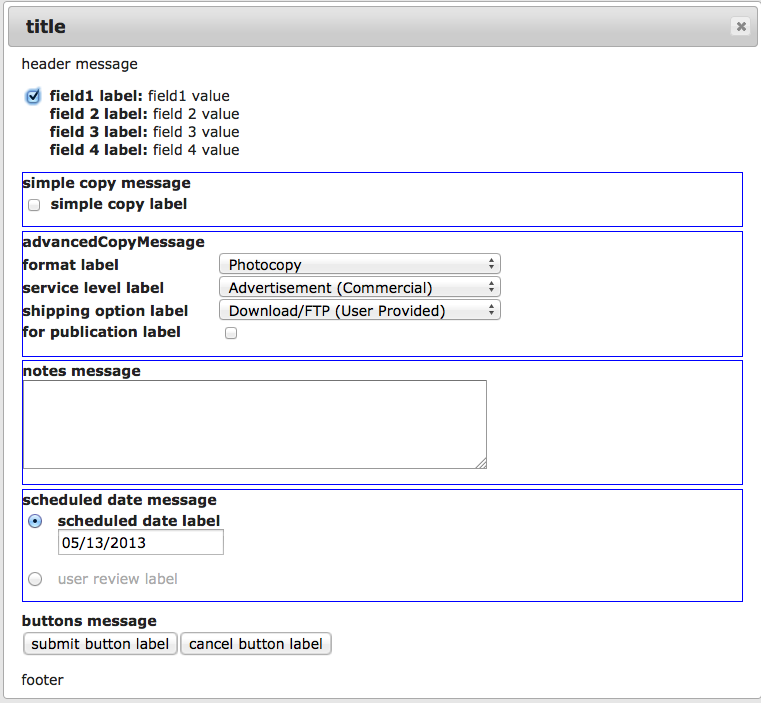
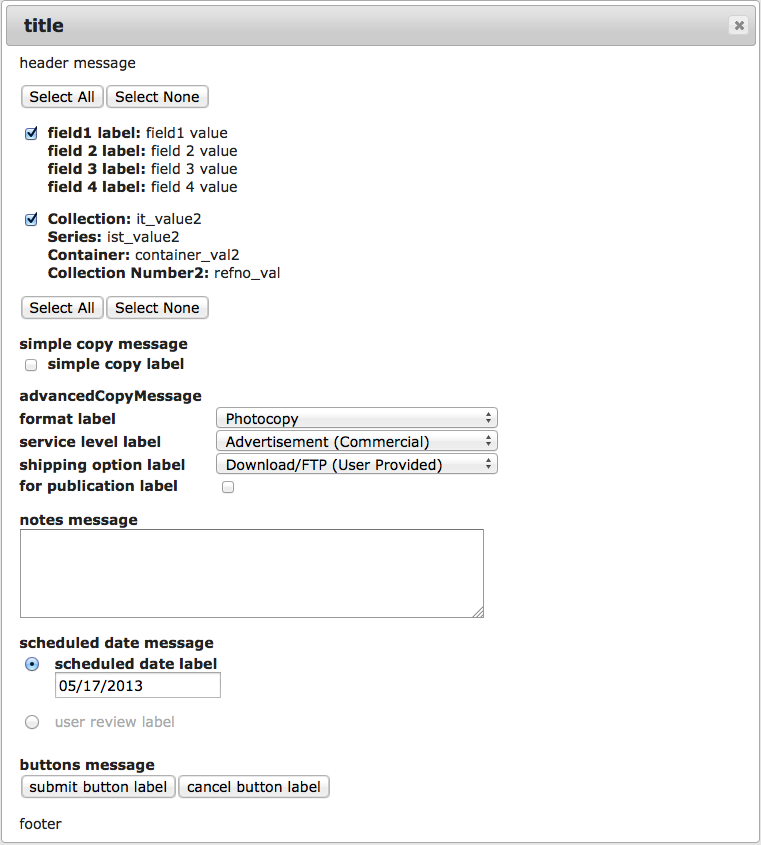
updated diagram and min; removed trailing comma

diff --git a/aeonRequestsDialog.min.js b/aeonRequestsDialog.min.js
@@ -1,21 +1,23 @@
 (function($){var methods={init:function(options){var $this=this,data=this.data("aeonRequestsDialog"),settings;if(!data){settings=$.extend({"dialogId":"aeon_request_dialog","useDefaultBindings":true,"compressRequests":false,"compressRequestsField":"ItemNumber","url":"","AeonForm":"EADRequest","RequestType":"Loan","datasource":"form","globalFields":[],"itemFields":[],"items":[],"json_url":null,"json_callback":null,"json_content":null,"custom_callback":null,"template":'<form method="POST" action="<%= this.url %>" class="aeon_request_form" target="_self" name="<%= this.AeonForm %>">'+
-'<input name="AeonForm" type="hidden" value="<%= this.AeonForm %>"/>'+'<input name="RequestType" type="hidden" value="<%= this.RequestType %>" />'+'<input name="SubmitButton" value="Submit Request" type="hidden" />'+"<% for (var x=0; x < this.globalFields.length; x++ ) { %>"+'<input name="<%= this.globalFields[x].name %>" type="hidden" value="<%= this.globalFields[x].value %>" />'+"<% } %>"+"<% if ( this.header ) { %>"+'<div class="aeon_request_header"><%= this.header %></div>'+"<% } %>"+'<div class="aeon_request_items"></div>'+
-"<% if ( this.includeSimpleCopyOption ) { %>"+'<div class="simple_copy_opt">'+"<% if ( this.simpleCopyMessage ) { %>"+'<div class="simple_copy_message message"><%= this.simpleCopyMessage %></div>'+"<% } %>"+'<div class="request_inputs">'+'<input type="checkbox" class="copy_check" value="Yes"/>'+"</div>"+'<div class="requestDesc"><label for="aeon_request_copy"><span class="label"><%= this.simpleCopyLabel %></span></label></div>'+"</div>"+"<% } %>"+"<% if ( this.includeAdvancedCopyOptions ) { %>"+'<div class="advanced_copy_opt">'+
-"<% if ( this.advancedCopyMessage ) { %>"+'<div class="adv_copy_message message"><%= this.advancedCopyMessage %></div>'+"<% } %>"+'<div class="adv_copy_element">'+'<label for="Format" class="label"><%= this.formatLabel %></label>'+'<select name="Format" class="adv_copy_select">'+"<% for ( var x=0; x < this.formatOptions.length; x++ ) { %>"+"<% var o = this.formatOptions[x]; %>"+'<% if ( typeof o === "object" ) { %>'+'<option value="<%= o.value %>"><%= o.label %></option>'+"<% } else { %>"+"<option><%= o %></option>"+
-"<% } %>"+"<% } %>"+"</select>"+"</div>"+'<div class="adv_copy_element">'+'<label for="ServiceLevel" class="label"><%= this.serviceLevelLabel %></label>'+'<select name="ServiceLevel" class="adv_copy_select">'+"<% for ( var x=0; x < this.serviceLevelOptions.length; x++ ) { %>"+"<% var o = this.serviceLevelOptions[x]; %>"+'<% if ( typeof o === "object" ) { %>'+'<option value="<%= o.value %>"><%= o.label %></option>'+"<% } else { %>"+"<option><%= o %></option>"+"<% } %>"+"<% } %>"+"</select>"+"</div>"+
-'<div class="adv_copy_element">'+'<label for="ShippingOption" class="label"><%= this.shippingOptionLabel %></label>'+'<select name="ShippingOption" class="adv_copy_select">'+"<% for ( var x=0; x < this.shippingOptions.length; x++ ) { %>"+"<% var o = this.shippingOptions[x]; %>"+'<% if ( typeof o === "object" ) { %>'+'<option value="<%= o.value %>"><%= o.label %></option>'+"<% } else { %>"+"<option><%= o %></option>"+"<% } %>"+"<% } %>"+"</select>"+"</div>"+'<div class="adv_copy_element">'+'<label for="ForPublication" class="label"><%= this.forPublicationLabel %></label>'+
-'<input name="ForPublication" type="checkbox" value="Yes">'+"</div>"+"</div>"+"<% } %>"+"<% if ( this.includeNotes ) { %>"+'<div class="notes">'+"<% if ( this.notesMessage ) { %>"+'<label for="Notes" class="notes_message message"><%= this.notesMessage %></label><br/>'+"<% } %>"+'<textarea name="Notes" cols="60" rows="4"></textarea>'+"</div>"+"<% } %>"+"<% if (this.includeScheduledDate) { %>"+'<div class="scheduled_date_options">'+"<% if ( this.scheduledDateMessage ) { %>"+'<div class="scheduled_date_message message"><%= this.scheduledDateMessage %></div>'+
-"<% } %>"+'<div class="rev_sched_opt">'+'<input type="radio" name="UserReview" class="schedule_opt scheduled_date_radio" value="No" checked="checked"/>'+"</div>"+'<div class="scheduled_date">'+'<label for="scheduled_date_radio"><span class="label"><%= this.scheduledDateLabel %></span></label><br/>'+'<input type="text" class="datepicker"  name="ScheduledDate"/>'+"</div>"+'<div class="rev_sched_opt">'+'<input type="radio" name="UserReview" value="Yes" class="schedule_opt user_review_radio"/>'+"</div>"+
-'<div class="review disabled">'+'<label for="user_review_radio"><%= this.userReviewLabel %></label>'+"</div>"+"</div>"+"<% } %>"+'<div class="buttons">'+"<% if ( this.buttonsMessage ) { %>"+'<div class="buttonMessage message"><%= this.buttonsMessage %></div>'+"<% } %>"+'<input type="submit" value="<%= this.submitButtonLabel %>" class="dialog_submit"/>'+'<input type="reset" value="<%= this.cancelButtonLabel %>" class="dialog_cancel"/>'+"</div>"+"<% if ( this.footer ) { %>"+'<div class="aeon_footer"><%= this.footer %></div>'+
-"<% } %>"+"</form>","items_template":"<div>"+"<% for ( var x=0; x < this.items.length; x++ ) { %>"+'<div class="requestItem" style="clear:both">'+'<div class="request_inputs">'+'<input type="checkbox" name="Request" value="<%= x %>" checked="checked"/>'+"\n"+"<% for ( var y=0; y < this.items[x].fields.length; y++ ){ %>"+'<input type="hidden" name="<%= this.items[x].fields[y].name %>_<%= x %>" value="<%= this.items[x].fields[y].value %>">'+"<% } %>"+"</div>"+"\n"+"<% for ( var y=0; y < this.items[x].fields.length; y++ ){ %>"+
-"<% if ( this.items[x].fields[y].label ) { %>"+'<div class="requestDesc"><span class="label"><%= this.items[x].fields[y].label %>:</span> <%= this.items[x].fields[y].value %></div>'+"<% } %>"+"<% } %>"+"</div>"+"\n"+"<% } %>"+"\n"+"</div>","items_attachpoint_selector":".aeon_request_items","title":"Confirm your request","header":"","includeNotes":true,"notesMessage":"Please include any notes that might help us identify the specific items requested or any other pertinent information:","includeScheduledDate":true,
-"scheduledDateMessage":"","scheduledDateLabel":"Scheduled Date","userReviewLabel":"Keep this request saved in your account for later review. It will not be sent to Libraries staff for fulfilment.","buttonsMessage":"","submitButtonLabel":"Submit Request","cancelButtonLabel":"Cancel Request","footer":"","includeSimpleCopyOption":false,"simpleCopyLabel":"Requesting Duplication of Material","simpleCopyMessage":"","includeAdvancedCopyOptions":false,"advancedCopyMessage":"","formatLabel":"Format","formatOptions":["Photocopy",
-"Scan (DVD/CD)","Scan (Electronic Delivery)"],"serviceLevelLabel":"Intended Use","serviceLevelOptions":["Advertisement (Commercial)","Advertisement (PSA)","Educational Use","Government","Live Presentation","Museum Use","Non Profit","Personal Use","Preservation Use"],"shippingOptionLabel":"Shipping Option","shippingOptions":["Download/FTP (User Provided)","Download/FTP (Institution Provided)","Pick up Onsite","Fed Ex (User Account)","UPS (User Account)","USPS (First Class)","USPS (Overseas)"],"forPublicationLabel":"For Publication",
-"submitButtonSelector":".aeon_submit","minWidth":750,"createDialog":function(){return this},"destroyDialog":function(){return this},"onSubmit":function(){return true},"form":"EADRequest","requestsSelector":'input[name="Request"]',"cleanValues":function(s){return s.replace(/^\s*/,"").replace(/\s*$/,"")},"stripUnchecked":false},options);if(settings.includeAdvancedCopyOptions)settings.RequestType="Copy";$(settings.submitButtonSelector).on("click.aeonRequestsDialogMain",function(e){e.preventDefault();
-e.stopPropagation();methods.show.apply($this,null)});$(this).data("aeonRequestsDialog",{settings:settings});$("body").jqoteapp('<div style="display:none"><div id="<%= this.dialogId %>" title="<%= this.title %>" class="aeon_request"></div></div>',settings)}else console.log("aeonRequestsDialog already initialized");return this},show:function(){var settings=this.data("aeonRequestsDialog").settings,$this=this;if(settings.datasource==="form"){methods._processForm.apply(this,null);methods._showDialog.apply(this,
-null)}if(settings.datasource==="json")$.getJSON(settings.json_url,settings.json_content,function(data){var o=settings.json_callback(data);if(o){methods.options.apply($this,[o]);methods._showDialog.apply($this,null)}});if(settings.datasource==="custom"){var o=settings.custom_callback();if(o){methods.options.apply($this,[o]);methods._showDialog.apply($this,null)}}},_showDialog:function(){var settings=this.data("aeonRequestsDialog").settings,$this=this,$dialog=$("#"+settings.dialogId),opts={modal:true,
-autoOpen:false,close:function(){if(settings.useDefaultBindings)methods._defaultDestroyDialog.apply($this,null);settings.destroyDialog();$(window).off(".aeonRequestsDialog");$dialog.dialog("destroy");$dialog.html("")}},f=["height","width"],f2=["min","max"];$dialog.jqotesub(settings.template,settings);$("#"+settings.dialogId+" "+settings.items_attachpoint_selector).jqotesub(settings.items_template,settings);for(var x=0;x<2;x++){if(settings[f[x]]){opts[f[x]]=settings[f[x]];continue}for(var y=0;y<2;y++){var s=
-f2[y]+f[x].charAt(0).toUpperCase()+f[x].slice(1);if(settings[s])opts[s]=settings[s]}}$dialog.dialog(opts);if(settings.useDefaultBindings)methods._defaultCreateDialog.apply(this,null);settings.createDialog();$dialog.dialog("open");return this},_defaultCreateDialog:function(){var $this=this;var settings=this.data("aeonRequestsDialog").settings;var idSelector="#"+settings.dialogId;$(idSelector+" .datepicker").datepicker({minDate:0}).val($.datepicker.formatDate("mm/dd/yy",new Date));if(settings.includeSimpleCopyOption)$(idSelector+
+'<input name="AeonForm" type="hidden" value="<%= this.AeonForm %>"/>'+'<input name="RequestType" type="hidden" value="<%= this.RequestType %>" />'+'<input name="SubmitButton" value="Submit Request" type="hidden" />'+"<% for (var x=0; x < this.globalFields.length; x++ ) { %>"+'<input name="<%= this.globalFields[x].name %>" type="hidden" value="<%= this.globalFields[x].value %>" />'+"<% } %>"+"<% if ( this.header ) { %>"+'<div class="aeon_request_header"><%= this.header %></div>'+"<% } %>"+'<% if ( this.selectAllButtonsPosition === "top" || this.selectAllButtonsPosition === "both" ) { %>'+
+"<% if ( !this.selectAllButtonsShowAt || ( this.items.length >= this.selectAllButtonsShowAt ) ) { %>"+'<div class="select_all_buttons"><button class="select_all">Select All</button><button class="select_none">Select None</button></div>'+"<% } %>"+"<% } %>"+'<div class="aeon_request_items"></div>'+'<% if ( this.selectAllButtonsPosition === "bottom" || this.selectAllButtonsPosition === "both" ) { %>'+"<% if ( !this.selectAllButtonsShowAt || ( this.items.length >= this.selectAllButtonsShowAt ) ) { %>"+
+'<div class="select_all_buttons"><button class="select_all">Select All</button><button class="select_none">Select None</button></div>'+"<% } %>"+"<% } %>"+"<% if ( this.includeSimpleCopyOption ) { %>"+'<div class="simple_copy_opt">'+"<% if ( this.simpleCopyMessage ) { %>"+'<div class="simple_copy_message message"><%= this.simpleCopyMessage %></div>'+"<% } %>"+'<div class="request_inputs">'+'<input type="checkbox" class="copy_check" value="Yes"/>'+"</div>"+'<div class="requestDesc"><label for="aeon_request_copy"><span class="label"><%= this.simpleCopyLabel %></span></label></div>'+
+"</div>"+"<% } %>"+"<% if ( this.includeAdvancedCopyOptions ) { %>"+'<div class="advanced_copy_opt">'+"<% if ( this.advancedCopyMessage ) { %>"+'<div class="adv_copy_message message"><%= this.advancedCopyMessage %></div>'+"<% } %>"+'<div class="adv_copy_element">'+'<label for="Format" class="label"><%= this.formatLabel %></label>'+'<select name="Format" class="adv_copy_select">'+"<% for ( var x=0; x < this.formatOptions.length; x++ ) { %>"+"<% var o = this.formatOptions[x]; %>"+'<% if ( typeof o === "object" ) { %>'+
+'<option value="<%= o.value %>"><%= o.label %></option>'+"<% } else { %>"+"<option><%= o %></option>"+"<% } %>"+"<% } %>"+"</select>"+"</div>"+'<div class="adv_copy_element">'+'<label for="ServiceLevel" class="label"><%= this.serviceLevelLabel %></label>'+'<select name="ServiceLevel" class="adv_copy_select">'+"<% for ( var x=0; x < this.serviceLevelOptions.length; x++ ) { %>"+"<% var o = this.serviceLevelOptions[x]; %>"+'<% if ( typeof o === "object" ) { %>'+'<option value="<%= o.value %>"><%= o.label %></option>'+
+"<% } else { %>"+"<option><%= o %></option>"+"<% } %>"+"<% } %>"+"</select>"+"</div>"+'<div class="adv_copy_element">'+'<label for="ShippingOption" class="label"><%= this.shippingOptionLabel %></label>'+'<select name="ShippingOption" class="adv_copy_select">'+"<% for ( var x=0; x < this.shippingOptions.length; x++ ) { %>"+"<% var o = this.shippingOptions[x]; %>"+'<% if ( typeof o === "object" ) { %>'+'<option value="<%= o.value %>"><%= o.label %></option>'+"<% } else { %>"+"<option><%= o %></option>"+
+"<% } %>"+"<% } %>"+"</select>"+"</div>"+'<div class="adv_copy_element">'+'<label for="ForPublication" class="label"><%= this.forPublicationLabel %></label>'+'<input name="ForPublication" type="checkbox" value="Yes">'+"</div>"+"</div>"+"<% } %>"+"<% if ( this.includeNotes ) { %>"+'<div class="notes">'+"<% if ( this.notesMessage ) { %>"+'<label for="Notes" class="notes_message message"><%= this.notesMessage %></label><br/>'+"<% } %>"+'<textarea name="Notes" cols="60" rows="4"></textarea>'+"</div>"+
+"<% } %>"+"<% if (this.includeScheduledDate) { %>"+'<div class="scheduled_date_options">'+"<% if ( this.scheduledDateMessage ) { %>"+'<div class="scheduled_date_message message"><%= this.scheduledDateMessage %></div>'+"<% } %>"+'<div class="rev_sched_opt">'+'<input type="radio" name="UserReview" class="schedule_opt scheduled_date_radio" value="No" checked="checked"/>'+"</div>"+'<div class="scheduled_date">'+'<label for="scheduled_date_radio"><span class="label"><%= this.scheduledDateLabel %></span></label><br/>'+
+'<input type="text" class="datepicker"  name="ScheduledDate"/>'+"</div>"+'<div class="rev_sched_opt">'+'<input type="radio" name="UserReview" value="Yes" class="schedule_opt user_review_radio"/>'+"</div>"+'<div class="review disabled">'+'<label for="user_review_radio"><%= this.userReviewLabel %></label>'+"</div>"+"</div>"+"<% } %>"+'<div class="buttons">'+"<% if ( this.buttonsMessage ) { %>"+'<div class="buttonMessage message"><%= this.buttonsMessage %></div>'+"<% } %>"+'<input type="submit" value="<%= this.submitButtonLabel %>" class="dialog_submit"/>'+
+'<input type="reset" value="<%= this.cancelButtonLabel %>" class="dialog_cancel"/>'+"</div>"+"<% if ( this.footer ) { %>"+'<div class="aeon_footer"><%= this.footer %></div>'+"<% } %>"+"</form>","items_template":"<div>"+"<% for ( var x=0; x < this.items.length; x++ ) { %>"+'<div class="requestItem" style="clear:both">'+'<div class="request_inputs">'+'<input type="checkbox" name="Request" value="<%= x %>" checked="checked"/>'+"\n"+"<% for ( var y=0; y < this.items[x].fields.length; y++ ){ %>"+'<input type="hidden" name="<%= this.items[x].fields[y].name %>_<%= x %>" value="<%= this.items[x].fields[y].value %>">'+
+"<% } %>"+"</div>"+"\n"+"<% for ( var y=0; y < this.items[x].fields.length; y++ ){ %>"+"<% if ( this.items[x].fields[y].label ) { %>"+'<div class="requestDesc"><span class="label"><%= this.items[x].fields[y].label %>:</span> <%= this.items[x].fields[y].value %></div>'+"<% } %>"+"<% } %>"+"</div>"+"\n"+"<% } %>"+"\n"+"</div>","items_attachpoint_selector":".aeon_request_items","title":"Confirm your request","header":"","includeNotes":true,"notesMessage":"Please include any notes that might help us identify the specific items requested or any other pertinent information:",
+"includeScheduledDate":true,"scheduledDateMessage":"","scheduledDateLabel":"Scheduled Date","userReviewLabel":"Keep this request saved in your account for later review. It will not be sent to Libraries staff for fulfilment.","buttonsMessage":"","submitButtonLabel":"Submit Request","cancelButtonLabel":"Cancel Request","footer":"","includeSimpleCopyOption":false,"simpleCopyLabel":"Requesting Duplication of Material","simpleCopyMessage":"","includeAdvancedCopyOptions":false,"advancedCopyMessage":"",
+"formatLabel":"Format","formatOptions":["Photocopy","Scan (DVD/CD)","Scan (Electronic Delivery)"],"serviceLevelLabel":"Intended Use","serviceLevelOptions":["Advertisement (Commercial)","Advertisement (PSA)","Educational Use","Government","Live Presentation","Museum Use","Non Profit","Personal Use","Preservation Use"],"shippingOptionLabel":"Shipping Option","shippingOptions":["Download/FTP (User Provided)","Download/FTP (Institution Provided)","Pick up Onsite","Fed Ex (User Account)","UPS (User Account)",
+"USPS (First Class)","USPS (Overseas)"],"forPublicationLabel":"For Publication","submitButtonSelector":".aeon_submit","minWidth":750,"createDialog":function(){return this},"destroyDialog":function(){return this},"onSubmit":function(){return true},"form":"EADRequest","requestsSelector":'input[name="Request"]',"cleanValues":function(s){return s.replace(/^\s*/,"").replace(/\s*$/,"")},"stripUnchecked":true,"selectAllButtonsPosition":"","selectAllButtonsShowAt":0},options);if(settings.includeAdvancedCopyOptions)settings.RequestType=
+"Copy";$(settings.submitButtonSelector).on("click.aeonRequestsDialogMain",function(e){e.preventDefault();e.stopPropagation();methods.show.apply($this,null)});$(this).data("aeonRequestsDialog",{settings:settings});$("body").jqoteapp('<div style="display:none"><div id="<%= this.dialogId %>" title="<%= this.title %>" class="aeon_request"></div></div>',settings)}else console.log("aeonRequestsDialog already initialized");return this},show:function(){var settings=this.data("aeonRequestsDialog").settings,
+$this=this;if(settings.datasource==="form"){methods._processForm.apply(this,null);methods._showDialog.apply(this,null)}if(settings.datasource==="json")$.getJSON(settings.json_url,settings.json_content,function(data){var o=settings.json_callback(data);if(o){methods.options.apply($this,[o]);methods._showDialog.apply($this,null)}});if(settings.datasource==="custom"){var o=settings.custom_callback();if(o){methods.options.apply($this,[o]);methods._showDialog.apply($this,null)}}},_showDialog:function(){var settings=
+this.data("aeonRequestsDialog").settings,$this=this,$dialog=$("#"+settings.dialogId),opts={modal:true,autoOpen:false,close:function(){if(settings.useDefaultBindings)methods._defaultDestroyDialog.apply($this,null);settings.destroyDialog();$(window).off(".aeonRequestsDialog");$dialog.dialog("destroy");$dialog.html("")}},f=["height","width"],f2=["min","max"];$dialog.jqotesub(settings.template,settings);$("#"+settings.dialogId+" "+settings.items_attachpoint_selector).jqotesub(settings.items_template,
+settings);for(var x=0;x<2;x++){if(settings[f[x]]){opts[f[x]]=settings[f[x]];continue}for(var y=0;y<2;y++){var s=f2[y]+f[x].charAt(0).toUpperCase()+f[x].slice(1);if(settings[s])opts[s]=settings[s]}}$dialog.dialog(opts);if(settings.useDefaultBindings)methods._defaultCreateDialog.apply(this,null);settings.createDialog();$dialog.dialog("open");return this},_defaultCreateDialog:function(){var $this=this;var settings=this.data("aeonRequestsDialog").settings;var idSelector="#"+settings.dialogId;$(idSelector+
+" .datepicker").datepicker({minDate:0}).val($.datepicker.formatDate("mm/dd/yy",new Date));$(idSelector+" .select_all").on("click.aeonRequestsDialog"+idSelector,function(e){e.preventDefault();e.stopPropagation();$(idSelector+" "+settings.requestsSelector).prop("checked",true)});$(idSelector+" .select_none").on("click.aeonRequestsDialog"+idSelector,function(e){e.preventDefault();e.stopPropagation();$(idSelector+" "+settings.requestsSelector).prop("checked",false)});if(settings.includeSimpleCopyOption)$(idSelector+
 " .copy_check").on("change.aeonRequestsDialog"+idSelector,function(){if(this.checked)$(idSelector+' input[name="RequestType"]').val("Copy");else $(idSelector+' input[name="RequestType"]').val("Loan")});if(settings.includeScheduledDate)$(idSelector+" .schedule_opt").on("change.aeonRequestsDialog"+idSelector,function(){if(this.checked&&this.value==="Yes"){$(idSelector+" .datepicker").prop("disabled","disabled");$(idSelector+" .scheduled_date").addClass("disabled");$(idSelector+" .review").removeClass("disabled")}else{$(idSelector+
 " .datepicker").prop("disabled","");$(idSelector+" .scheduled_date").removeClass("disabled");$(idSelector+" .review").addClass("disabled")}});$(idSelector+" .dialog_submit").on("click.aeonRequestsDialog"+idSelector,function(e){e.preventDefault();e.stopPropagation();if($(idSelector+" "+settings.requestsSelector+":checked").length==0)return;if(!settings.onSubmit())return;$("div.ui-widget-overlay").remove();$("div.ui-dialog").css("display","none");if(settings.stripUnchecked)methods._stripUnchecked.apply($this,
 null);if(settings.compressRequests)methods._compressRequests.apply($this,null);$(idSelector+" .aeon_request_form").submit()});$(idSelector+" .dialog_cancel").on("click.aeonRequestsDialog"+idSelector,function(){$(idSelector).dialog("close")})},_defaultDestroyDialog:function(){var settings=this.data("aeonRequestsDialog").settings;$("#"+settings.dialogId+" .datepicker").datepicker("destroy");$(window).off(".aeonRequestsDialog#"+settings.dialogId)},"_processForm":function(){var settings=this.data("aeonRequestsDialog").settings;
@@ -23,6 +25,6 @@ settings.items=[];$(settings.requestsSelector+":checked").each(function(){var id
 this.data("aeonRequestsDialog",{settings:settings})},_compressRequests:function(){var settings=this.data("aeonRequestsDialog").settings;var codes={};var idSelector="#"+settings.dialogId;var fieldName=settings.compressRequestsField;var requestsSelector=idSelector+" "+settings.requestsSelector+":checked";var requests=$(requestsSelector);var newReqNum=requests.length;requests.each(function(){var requestNumber=$(this).val();var collapseFieldValue=$(idSelector+' input[name="'+fieldName+"_"+requestNumber+
 '"]').val();if(!codes[collapseFieldValue])codes[collapseFieldValue]=new Array;codes[collapseFieldValue].push(requestNumber)});for(var code in codes){var requestNumbers=codes[code];if(requestNumbers.length<2)continue;var newRequest={};for(var x=0;x<settings.itemFields.length;x++){var field=settings.itemFields[x].name;for(var y=0;y<requestNumbers.length;y++){var key=requestNumbers[y];var oldField=$(idSelector+' input[name="'+field+"_"+key+'"]');if(!oldField)continue;var oldVal=oldField.val();if(!newRequest[field])newRequest[field]=
 oldVal;else if(newRequest[field]!=oldVal)newRequest[field]+="; "+oldVal;oldField.remove();$('input[name="Request"][value="'+key+'"]').remove()}}$("<input/>").prop("type","hidden").prop("name","Request").val(newReqNum).appendTo(idSelector+" .aeon_request_form");for(var field in newRequest)$("<input/>").prop("type","hidden").prop("name",field+"_"+newReqNum).val(newRequest[field]).appendTo(idSelector+" .aeon_request_form");newReqNum++}},_stripUnchecked:function(){var settings=this.data("aeonRequestsDialog").settings;
-var idSelector="#"+settings.dialogId;var uncheckedSelector=idSelector+" "+settings.requestsSelector+":not(:checked)";$(uncheckedSelector).each(function(){var reqNo=$(this).val();for(var x=0;x<settings.itemFields.length;x++)$(idSelector+' input[name="'+settings.itemFields[x].name+"_"+reqNo+'"]').remove()})},options:function(){var settings=this.data("aeonRequestsDialog").settings;if(arguments.length===0)return settings;else if(arguments.length===1)if(typeof arguments[0]==="object")settings=$.extend(settings,
-arguments[0]);else if(typeof arguments[0]==="string"){if(undefined===settings[arguments[0]]){console.log("Unknown key sent to arguments.");return null}return settings[arguments[0]]}else{console.log("Argument to options must be of type Object or String");return null}else if(arguments.length===2)settings[arguments[0]]=arguments[1];else{console.log("Illegal number of arguments sent to options.");return null}this.data("aeonRequestsDialog",{settings:settings});return settings},destroy:function(){var data=
-this.data("aeonRequestsDialog");$(window).off(".aeonRequestsDialogMain");$this.removeData("aeonRequestsDialog");return this}};$.fn.aeonRequestsDialog=function(method){if(methods[method])return methods[method].apply(this,Array.prototype.slice.call(arguments,1));else if(typeof method==="object"||!method)return methods.init.apply(this,arguments);else{$.error("Method "+method+" does not exist on jQuery.aeonRequestDialog");return null}}})(jQuery);
+var idSelector="#"+settings.dialogId;var uncheckedSelector=idSelector+" "+settings.requestsSelector+":not(:checked)";$(uncheckedSelector).each(function(){$(idSelector+' input[name$="_'+$(this).val()+'"]').remove()})},options:function(){var settings=this.data("aeonRequestsDialog").settings;if(arguments.length===0)return settings;else if(arguments.length===1)if(typeof arguments[0]==="object")settings=$.extend(settings,arguments[0]);else if(typeof arguments[0]==="string"){if(undefined===settings[arguments[0]]){console.log("Unknown key sent to arguments.");
+return null}return settings[arguments[0]]}else{console.log("Argument to options must be of type Object or String");return null}else if(arguments.length===2)settings[arguments[0]]=arguments[1];else{console.log("Illegal number of arguments sent to options.");return null}this.data("aeonRequestsDialog",{settings:settings});return settings},destroy:function(){var data=this.data("aeonRequestsDialog");$(window).off(".aeonRequestsDialogMain");$this.removeData("aeonRequestsDialog");return this}};$.fn.aeonRequestsDialog=
+function(method){if(methods[method])return methods[method].apply(this,Array.prototype.slice.call(arguments,1));else if(typeof method==="object"||!method)return methods.init.apply(this,arguments);else{$.error("Method "+method+" does not exist on jQuery.aeonRequestDialog");return null}}})(jQuery);

diff --git a/aeonRequestsDialog.js b/aeonRequestsDialog.js
@@ -268,7 +268,7 @@
           'stripUnchecked':true,
 
           'selectAllButtonsPosition': '',
-          'selectAllButtonsShowAt': 0,
+          'selectAllButtonsShowAt': 0
 
         }, options);
 
